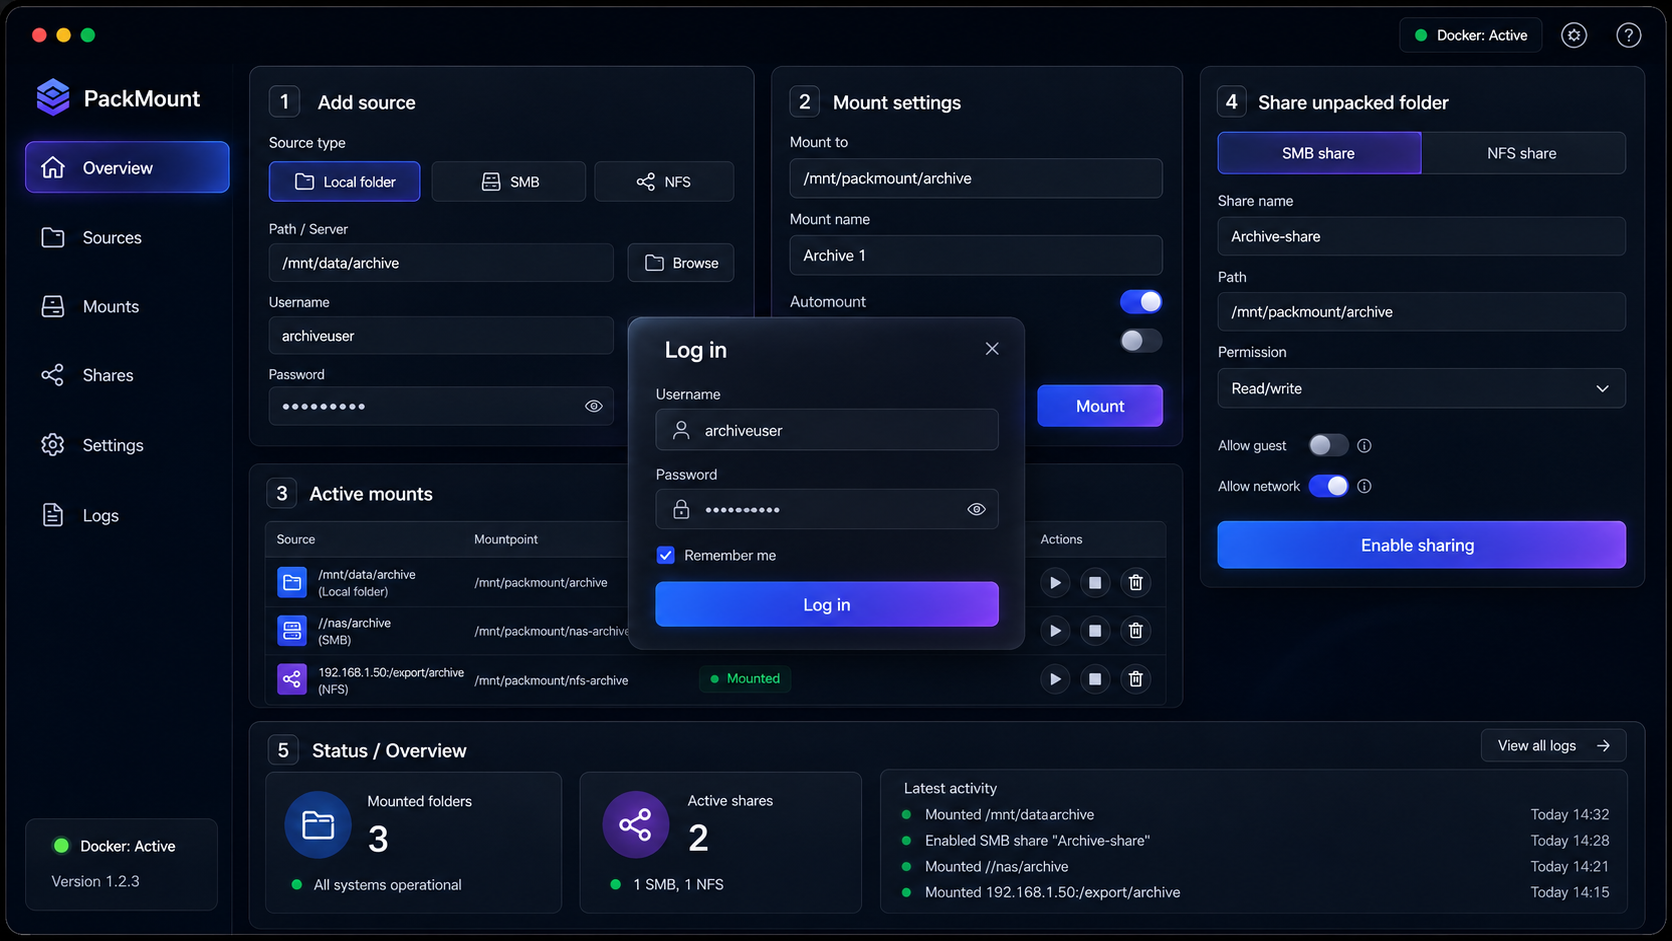
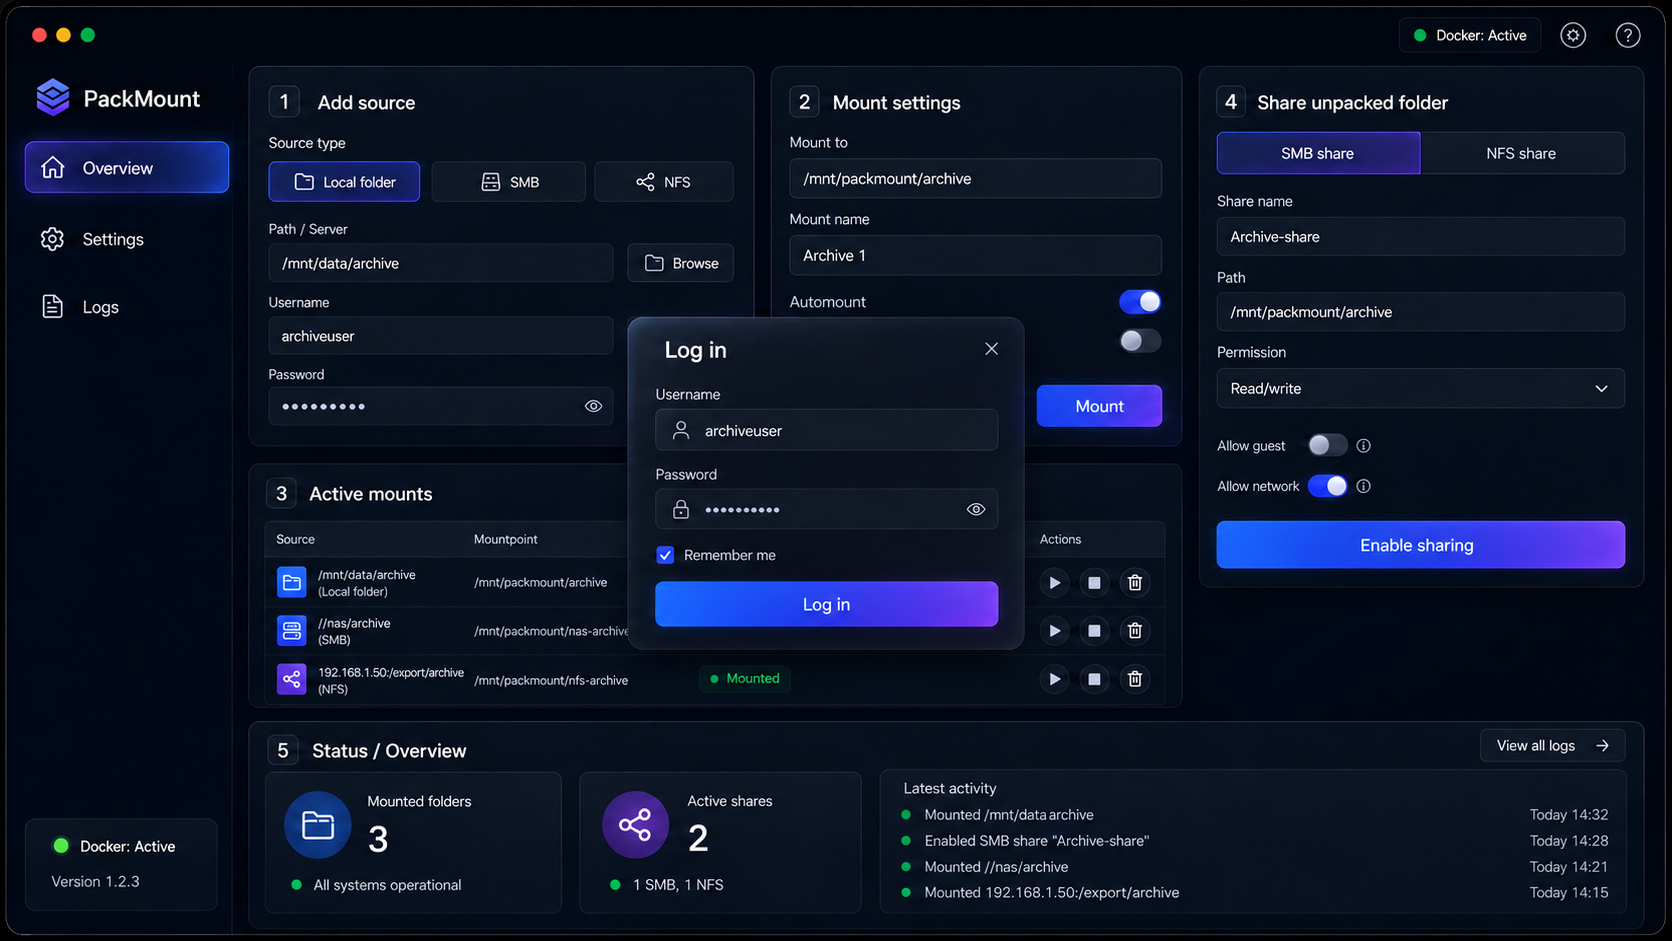
New design

diff --git a/CHANGELOG.md b/CHANGELOG.md
@@ -41,3 +41,5 @@ Python syntax and shell syntax validated. Docker image build and kernel mount in
 - Added an Actions workflow to publish amd64 container images to GitHub Container Registry on pushes and manual dispatch.
 - Added `latest`, git-SHA and semantic-version container tags.
 - Added `docker-compose.ghcr.yml` and documented how to pull/run without a local build.
+## Packaging refresh
+- Updated docs/mockup.png to match the simplified sidebar (Overview, Settings, Logs only).
